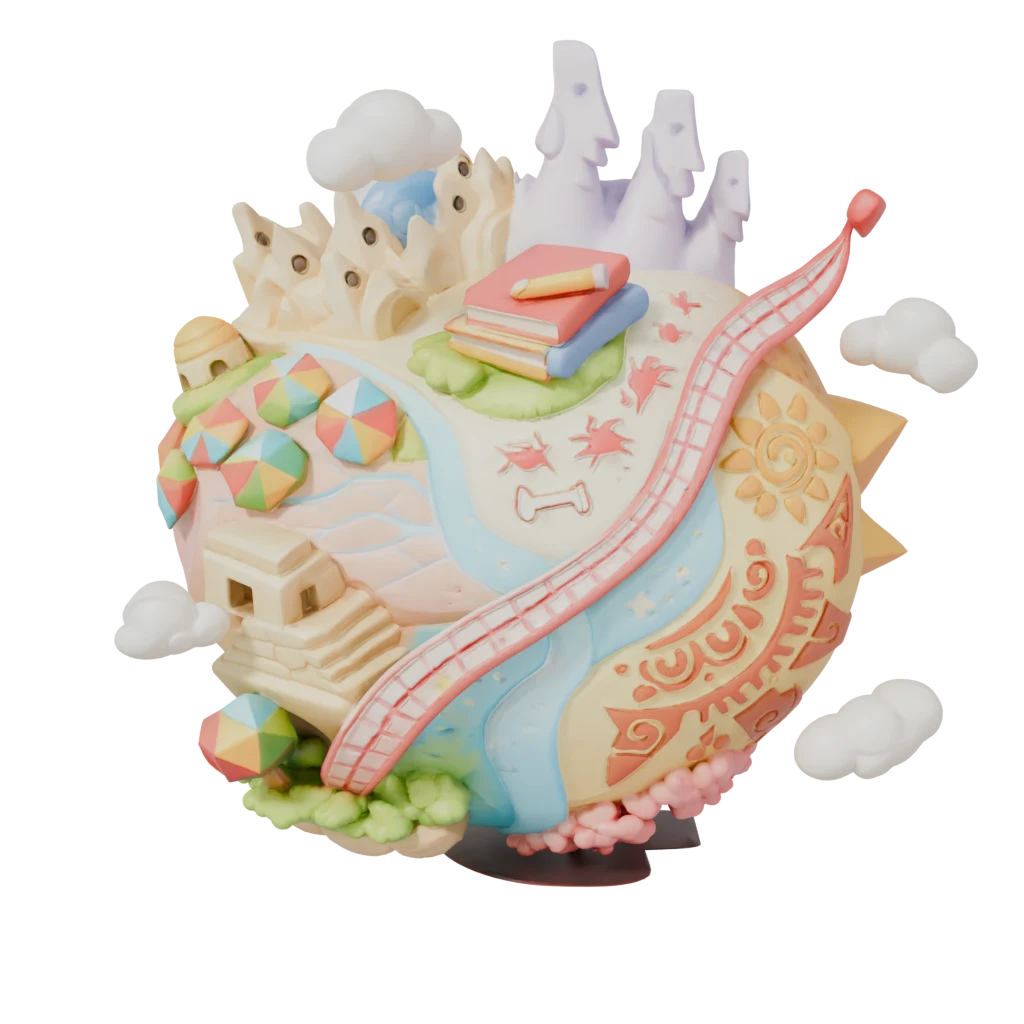
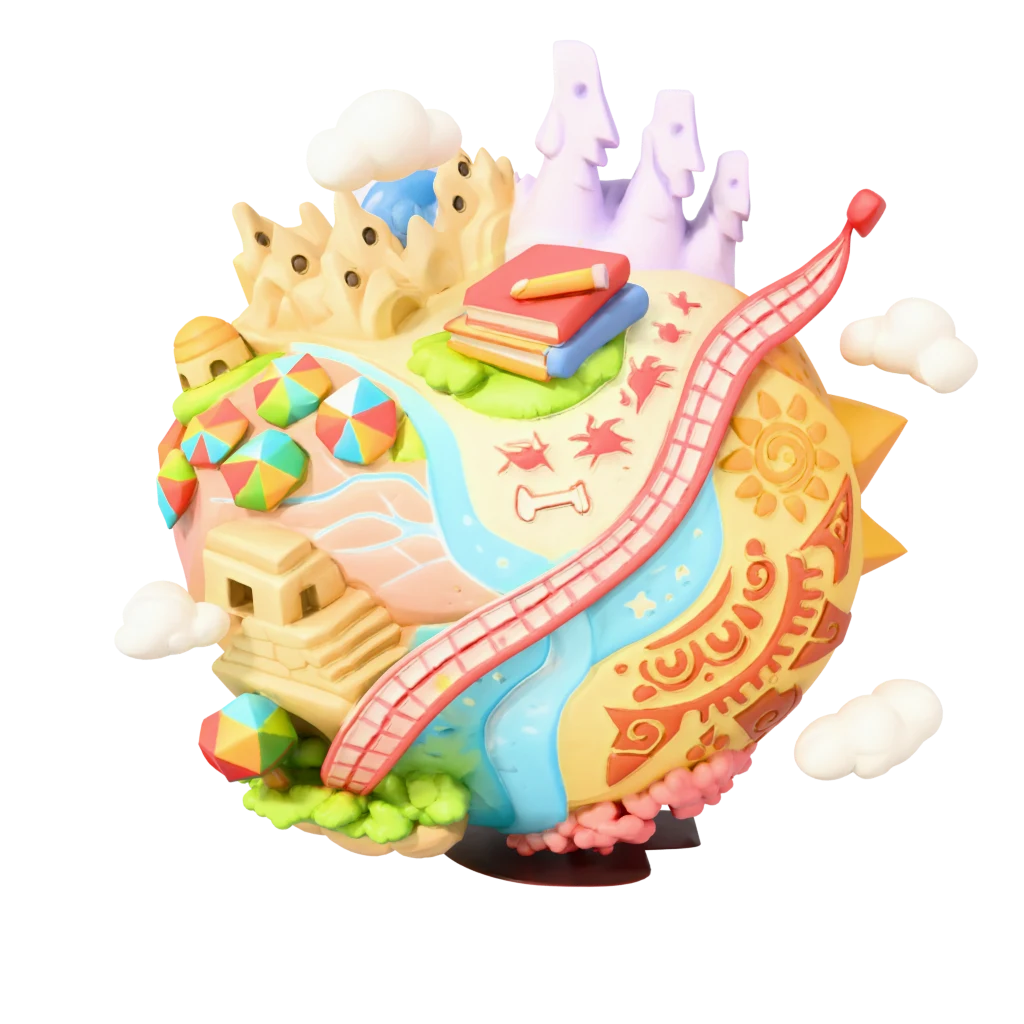
Planetas: cores fiéis (tom Khronos PBR Neutral), pôsteres novos e nomes temáticos
O AgX deixava a saturação em 62–72% da arte; o Neutral mostra a textura como ela é.
Nomes: Mitologia, Empreendedorismo, Emoções, Artes, Computação, Fantasia, Música, Terra.

diff --git a/kit-planetas/components/planetas/planetas.ts b/kit-planetas/components/planetas/planetas.ts
@@ -6,14 +6,14 @@ import type { PlanetaDados } from './PlanetaGirando'
    Planeta novo: o script ferramentas/otimizar_glb.py imprime a linha pronta para colar aqui.
    ===================================================================== */
 export const PLANETAS = {
-  'planeta-01': { id: 'planeta-01', nome: 'Planeta 01', pasta: 'planetas/planeta-01', modelo: 'planeta.glb', poster: 'poster.webp', raioQuadro: 1.347, inicio: 305, elevacao: 12, fov: 30 },
-  'planeta-02': { id: 'planeta-02', nome: 'Planeta 02', pasta: 'planetas/planeta-02', modelo: 'planeta.glb', poster: 'poster.webp', raioQuadro: 1.446, inicio: 0, elevacao: 12, fov: 30 },
-  'planeta-03': { id: 'planeta-03', nome: 'Planeta 03', pasta: 'planetas/planeta-03', modelo: 'planeta.glb', poster: 'poster.webp', raioQuadro: 1.397, inicio: 0, elevacao: 12, fov: 30 },
-  'planeta-04': { id: 'planeta-04', nome: 'Planeta 04', pasta: 'planetas/planeta-04', modelo: 'planeta.glb', poster: 'poster.webp', raioQuadro: 1.463, inicio: 0, elevacao: 12, fov: 30 },
-  'planeta-05': { id: 'planeta-05', nome: 'Planeta 05', pasta: 'planetas/planeta-05', modelo: 'planeta.glb', poster: 'poster.webp', raioQuadro: 1.322, inicio: 0, elevacao: 12, fov: 30 },
-  'planeta-06': { id: 'planeta-06', nome: 'Planeta 06', pasta: 'planetas/planeta-06', modelo: 'planeta.glb', poster: 'poster.webp', raioQuadro: 1.612, inicio: 0, elevacao: 12, fov: 30 },
-  'planeta-07': { id: 'planeta-07', nome: 'Planeta 07', pasta: 'planetas/planeta-07', modelo: 'planeta.glb', poster: 'poster.webp', raioQuadro: 1.067, inicio: 315, elevacao: 35, fov: 30 },
-  'planeta-08': { id: 'planeta-08', nome: 'Planeta 08', pasta: 'planetas/planeta-08', modelo: 'planeta.glb', poster: 'poster.webp', raioQuadro: 1.574, inicio: 0, elevacao: 12, fov: 30 },
+  'planeta-01': { id: 'planeta-01', nome: 'Mitologia', pasta: 'planetas/planeta-01', modelo: 'planeta.glb', poster: 'poster.webp', raioQuadro: 1.347, inicio: 305, elevacao: 12, fov: 30 },
+  'planeta-02': { id: 'planeta-02', nome: 'Empreendedorismo', pasta: 'planetas/planeta-02', modelo: 'planeta.glb', poster: 'poster.webp', raioQuadro: 1.446, inicio: 0, elevacao: 12, fov: 30 },
+  'planeta-03': { id: 'planeta-03', nome: 'Emoções', pasta: 'planetas/planeta-03', modelo: 'planeta.glb', poster: 'poster.webp', raioQuadro: 1.397, inicio: 0, elevacao: 12, fov: 30 },
+  'planeta-04': { id: 'planeta-04', nome: 'Artes', pasta: 'planetas/planeta-04', modelo: 'planeta.glb', poster: 'poster.webp', raioQuadro: 1.463, inicio: 0, elevacao: 12, fov: 30 },
+  'planeta-05': { id: 'planeta-05', nome: 'Computação', pasta: 'planetas/planeta-05', modelo: 'planeta.glb', poster: 'poster.webp', raioQuadro: 1.322, inicio: 0, elevacao: 12, fov: 30 },
+  'planeta-06': { id: 'planeta-06', nome: 'Fantasia', pasta: 'planetas/planeta-06', modelo: 'planeta.glb', poster: 'poster.webp', raioQuadro: 1.612, inicio: 0, elevacao: 12, fov: 30 },
+  'planeta-07': { id: 'planeta-07', nome: 'Música', pasta: 'planetas/planeta-07', modelo: 'planeta.glb', poster: 'poster.webp', raioQuadro: 1.067, inicio: 315, elevacao: 35, fov: 30 },
+  'planeta-08': { id: 'planeta-08', nome: 'Terra', pasta: 'planetas/planeta-08', modelo: 'planeta.glb', poster: 'poster.webp', raioQuadro: 1.574, inicio: 0, elevacao: 12, fov: 30 },
 } satisfies Record<string, PlanetaDados & { nome: string }>
 
 export type IdPlaneta = keyof typeof PLANETAS

diff --git a/src/prototypes/planetas/planetas.ts b/src/prototypes/planetas/planetas.ts
@@ -6,14 +6,14 @@ import type { PlanetaDados } from './PlanetaGirando'
    ficam em public/planetas/<id>/. A linha é impressa pelo otimizar_glb.py.
    ===================================================================== */
 export const PLANETAS = {
-  'planeta-01': { id: 'planeta-01', nome: 'Planeta 01', pasta: 'planetas/planeta-01', modelo: 'planeta.glb', poster: 'poster.webp', raioQuadro: 1.347, inicio: 305, elevacao: 12, fov: 30 },
-  'planeta-02': { id: 'planeta-02', nome: 'Planeta 02', pasta: 'planetas/planeta-02', modelo: 'planeta.glb', poster: 'poster.webp', raioQuadro: 1.446, inicio: 0, elevacao: 12, fov: 30 },
-  'planeta-03': { id: 'planeta-03', nome: 'Planeta 03', pasta: 'planetas/planeta-03', modelo: 'planeta.glb', poster: 'poster.webp', raioQuadro: 1.397, inicio: 0, elevacao: 12, fov: 30 },
-  'planeta-04': { id: 'planeta-04', nome: 'Planeta 04', pasta: 'planetas/planeta-04', modelo: 'planeta.glb', poster: 'poster.webp', raioQuadro: 1.463, inicio: 0, elevacao: 12, fov: 30 },
-  'planeta-05': { id: 'planeta-05', nome: 'Planeta 05', pasta: 'planetas/planeta-05', modelo: 'planeta.glb', poster: 'poster.webp', raioQuadro: 1.322, inicio: 0, elevacao: 12, fov: 30 },
-  'planeta-06': { id: 'planeta-06', nome: 'Planeta 06', pasta: 'planetas/planeta-06', modelo: 'planeta.glb', poster: 'poster.webp', raioQuadro: 1.612, inicio: 0, elevacao: 12, fov: 30 },
-  'planeta-07': { id: 'planeta-07', nome: 'Planeta 07', pasta: 'planetas/planeta-07', modelo: 'planeta.glb', poster: 'poster.webp', raioQuadro: 1.067, inicio: 315, elevacao: 35, fov: 30 },
-  'planeta-08': { id: 'planeta-08', nome: 'Planeta 08', pasta: 'planetas/planeta-08', modelo: 'planeta.glb', poster: 'poster.webp', raioQuadro: 1.574, inicio: 0, elevacao: 12, fov: 30 },
+  'planeta-01': { id: 'planeta-01', nome: 'Mitologia', pasta: 'planetas/planeta-01', modelo: 'planeta.glb', poster: 'poster.webp', raioQuadro: 1.347, inicio: 305, elevacao: 12, fov: 30 },
+  'planeta-02': { id: 'planeta-02', nome: 'Empreendedorismo', pasta: 'planetas/planeta-02', modelo: 'planeta.glb', poster: 'poster.webp', raioQuadro: 1.446, inicio: 0, elevacao: 12, fov: 30 },
+  'planeta-03': { id: 'planeta-03', nome: 'Emoções', pasta: 'planetas/planeta-03', modelo: 'planeta.glb', poster: 'poster.webp', raioQuadro: 1.397, inicio: 0, elevacao: 12, fov: 30 },
+  'planeta-04': { id: 'planeta-04', nome: 'Artes', pasta: 'planetas/planeta-04', modelo: 'planeta.glb', poster: 'poster.webp', raioQuadro: 1.463, inicio: 0, elevacao: 12, fov: 30 },
+  'planeta-05': { id: 'planeta-05', nome: 'Computação', pasta: 'planetas/planeta-05', modelo: 'planeta.glb', poster: 'poster.webp', raioQuadro: 1.322, inicio: 0, elevacao: 12, fov: 30 },
+  'planeta-06': { id: 'planeta-06', nome: 'Fantasia', pasta: 'planetas/planeta-06', modelo: 'planeta.glb', poster: 'poster.webp', raioQuadro: 1.612, inicio: 0, elevacao: 12, fov: 30 },
+  'planeta-07': { id: 'planeta-07', nome: 'Música', pasta: 'planetas/planeta-07', modelo: 'planeta.glb', poster: 'poster.webp', raioQuadro: 1.067, inicio: 315, elevacao: 35, fov: 30 },
+  'planeta-08': { id: 'planeta-08', nome: 'Terra', pasta: 'planetas/planeta-08', modelo: 'planeta.glb', poster: 'poster.webp', raioQuadro: 1.574, inicio: 0, elevacao: 12, fov: 30 },
 } satisfies Record<string, PlanetaDados & { nome: string }>
 
 export type IdPlaneta = keyof typeof PLANETAS

diff --git a/src/platform/journeys.ts b/src/platform/journeys.ts
@@ -536,14 +536,14 @@ export const journeys: Journey[] = [
     dispositivo: 'desktop',
     dominio: 'exploradores.jovensgenios.com',
     flows: [
-      { id: 'giro', label: 'Giro 360°', icon: './planetas/planeta-01/poster.webp' },
-      { id: 'planeta-02', label: 'Planeta 02', icon: './planetas/planeta-02/poster.webp' },
-      { id: 'planeta-03', label: 'Planeta 03', icon: './planetas/planeta-03/poster.webp' },
-      { id: 'planeta-04', label: 'Planeta 04', icon: './planetas/planeta-04/poster.webp' },
-      { id: 'planeta-05', label: 'Planeta 05', icon: './planetas/planeta-05/poster.webp' },
-      { id: 'planeta-06', label: 'Planeta 06', icon: './planetas/planeta-06/poster.webp' },
-      { id: 'planeta-07', label: 'Planeta 07', icon: './planetas/planeta-07/poster.webp' },
-      { id: 'planeta-08', label: 'Planeta 08', icon: './planetas/planeta-08/poster.webp' },
+      { id: 'giro', label: 'Giro 360° · Planeta Mitologia', icon: './planetas/planeta-01/poster.webp' },
+      { id: 'planeta-02', label: 'Planeta Empreendedorismo', icon: './planetas/planeta-02/poster.webp' },
+      { id: 'planeta-03', label: 'Planeta Emoções', icon: './planetas/planeta-03/poster.webp' },
+      { id: 'planeta-04', label: 'Planeta Artes', icon: './planetas/planeta-04/poster.webp' },
+      { id: 'planeta-05', label: 'Planeta Computação', icon: './planetas/planeta-05/poster.webp' },
+      { id: 'planeta-06', label: 'Planeta Fantasia', icon: './planetas/planeta-06/poster.webp' },
+      { id: 'planeta-07', label: 'Planeta Música', icon: './planetas/planeta-07/poster.webp' },
+      { id: 'planeta-08', label: 'Planeta Terra', icon: './planetas/planeta-08/poster.webp' },
       { id: 'claro', label: 'Giro em fundo claro', icon: './3d/sparkles.png' },
       { id: 'tamanhos', label: 'Tamanhos de uso', icon: './3d/planet.png' },
       { id: 'nextjs', label: 'Handoff Next.js', icon: './3d/clipboard.png' },

diff --git a/src/prototypes/planetas/index.tsx b/src/prototypes/planetas/index.tsx
@@ -152,7 +152,7 @@ export default function Planetas({ startScreen }: PrototypeProps) {
 
             {LISTA_PLANETAS.length > 1 && (
               <Campo titulo="Planeta" icone={Globe}>
-                <Segmentos valor={idPlaneta} opcoes={LISTA_PLANETAS.map((p) => ({ id: p.id, label: LISTA_PLANETAS.length > 3 ? p.nome.replace(/^Planeta\s+/, '') : p.nome }))} onChange={(v) => setIdPlaneta(v as IdPlaneta)} />
+                <Segmentos grade valor={idPlaneta} opcoes={LISTA_PLANETAS.map((p) => ({ id: p.id, label: p.nome }))} onChange={(v) => setIdPlaneta(v as IdPlaneta)} />
               </Campo>
             )}
 
@@ -210,16 +210,19 @@ function Campo({ titulo, icone: Icone, children }: { titulo: string; icone: Luci
 }
 
 function Segmentos({
+  grade = false,
   valor,
   opcoes,
   onChange,
 }: {
+  /** botões em grade de duas colunas (listas longas, como a de planetas) */
+  grade?: boolean
   valor: string
   opcoes: { id: string; label: string; sub?: string; icone?: LucideIcon }[]
   onChange: (id: string) => void
 }) {
   return (
-    <div className="pv-seg" role="radiogroup">
+    <div className={grade ? 'pv-seg pv-seg--grade' : 'pv-seg'} role="radiogroup">
       {opcoes.map(({ id, label, sub, icone: Icone }) => (
         <button key={id} role="radio" aria-checked={valor === id} className={valor === id ? 'is-on' : ''} onClick={() => onChange(id)}>
           {Icone && <Icone size={16} aria-hidden />}

diff --git a/src/prototypes/planetas/PlanetaGirando.tsx b/src/prototypes/planetas/PlanetaGirando.tsx
@@ -2,12 +2,11 @@
 
 import { useEffect, useRef, useState, type CSSProperties, type KeyboardEvent, type PointerEvent } from 'react'
 import {
-  ACESFilmicToneMapping,
-  AgXToneMapping,
   DirectionalLight,
   Group,
   HemisphereLight,
   Mesh,
+  NeutralToneMapping,
   PMREMGenerator,
   PerspectiveCamera,
   SRGBColorSpace,
@@ -28,7 +27,8 @@ import s from './planeta-girando.module.css'
    Blender por scripts/planetas/otimizar_glb.py): centro da esfera na
    origem, raio 1, 160 mil triângulos, texturas PBR 2K em WebP e malha
    comprimida por meshopt (~2,4 MB). O three.js desenha com luz de estúdio
-   (principal no alto à esquerda + ambiente) e o objeto só gira: os
+   (principal no alto à esquerda + ambiente), tom Khronos PBR Neutral (cores fiéis à
+   textura) e o objeto só gira: os
    elementos aparecem, passam e somem sem nunca mudar de forma.
 
    Comportamento (igual ao das versões anteriores):
@@ -188,7 +188,9 @@ export function PlanetaGirando({
       return
     }
     renderer.outputColorSpace = SRGBColorSpace
-    renderer.toneMapping = AgXToneMapping ?? ACESFilmicToneMapping
+    // Khronos PBR Neutral: mostra a cor da textura como ela é (cores vibrantes da massinha).
+    // O AgX, usado antes, deixava a saturação em 62–72% da arte.
+    renderer.toneMapping = NeutralToneMapping
     renderer.toneMappingExposure = 1.05
     renderer.setClearColor(0x000000, 0)
 

diff --git a/kit-planetas/components/planetas/PlanetaGirando.tsx b/kit-planetas/components/planetas/PlanetaGirando.tsx
@@ -2,12 +2,11 @@
 
 import { useEffect, useRef, useState, type CSSProperties, type KeyboardEvent, type PointerEvent } from 'react'
 import {
-  ACESFilmicToneMapping,
-  AgXToneMapping,
   DirectionalLight,
   Group,
   HemisphereLight,
   Mesh,
+  NeutralToneMapping,
   PMREMGenerator,
   PerspectiveCamera,
   SRGBColorSpace,
@@ -28,7 +27,8 @@ import s from './planeta-girando.module.css'
    Blender por ferramentas/otimizar_glb.py): centro da esfera na
    origem, raio 1, 160 mil triângulos, texturas PBR 2K em WebP e malha
    comprimida por meshopt (~2,4 MB). O three.js desenha com luz de estúdio
-   (principal no alto à esquerda + ambiente) e o objeto só gira: os
+   (principal no alto à esquerda + ambiente), tom Khronos PBR Neutral (cores fiéis à
+   textura) e o objeto só gira: os
    elementos aparecem, passam e somem sem nunca mudar de forma.
 
    Comportamento (igual ao das versões anteriores):
@@ -188,7 +188,9 @@ export function PlanetaGirando({
       return
     }
     renderer.outputColorSpace = SRGBColorSpace
-    renderer.toneMapping = AgXToneMapping ?? ACESFilmicToneMapping
+    // Khronos PBR Neutral: mostra a cor da textura como ela é (cores vibrantes da massinha).
+    // O AgX, usado antes, deixava a saturação em 62–72% da arte.
+    renderer.toneMapping = NeutralToneMapping
     renderer.toneMappingExposure = 1.05
     renderer.setClearColor(0x000000, 0)
 

diff --git a/src/prototypes/planetas/vitrine.css b/src/prototypes/planetas/vitrine.css
@@ -310,6 +310,10 @@
   border-radius: 14px;
   background: var(--linha-2);
 }
+.pv-seg--grade {
+  display: grid;
+  grid-template-columns: 1fr 1fr;
+}
 .pv-seg button {
   flex: 1;
   display: inline-flex;

diff --git a/kit-planetas/ferramentas/otimizar_glb.py b/kit-planetas/ferramentas/otimizar_glb.py
@@ -124,7 +124,7 @@ cena.render.resolution_x = cena.render.resolution_y = 1024
 cena.render.image_settings.file_format = 'WEBP'
 cena.render.image_settings.quality = 88
 cena.render.image_settings.color_mode = 'RGBA'
-cena.view_settings.view_transform = 'AgX'
+cena.view_settings.view_transform = 'Khronos PBR Neutral'  # o mesmo tom do site (cores fiéis à textura)
 mundo = bpy.data.worlds.new('W')
 cena.world = mundo
 bg = next(n for n in mundo.node_tree.nodes if n.type == 'BACKGROUND')

diff --git a/scripts/planetas/otimizar_glb.py b/scripts/planetas/otimizar_glb.py
@@ -124,7 +124,7 @@ cena.render.resolution_x = cena.render.resolution_y = 1024
 cena.render.image_settings.file_format = 'WEBP'
 cena.render.image_settings.quality = 88
 cena.render.image_settings.color_mode = 'RGBA'
-cena.view_settings.view_transform = 'AgX'
+cena.view_settings.view_transform = 'Khronos PBR Neutral'  # o mesmo tom do site (cores fiéis à textura)
 mundo = bpy.data.worlds.new('W')
 cena.world = mundo
 bg = next(n for n in mundo.node_tree.nodes if n.type == 'BACKGROUND')
